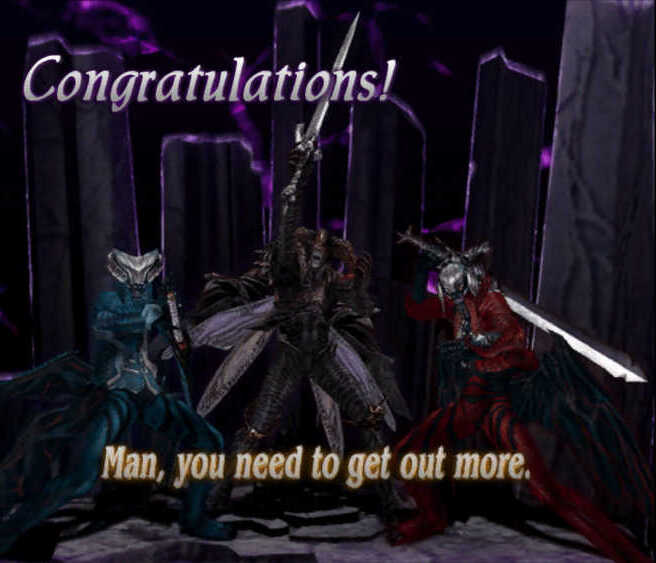
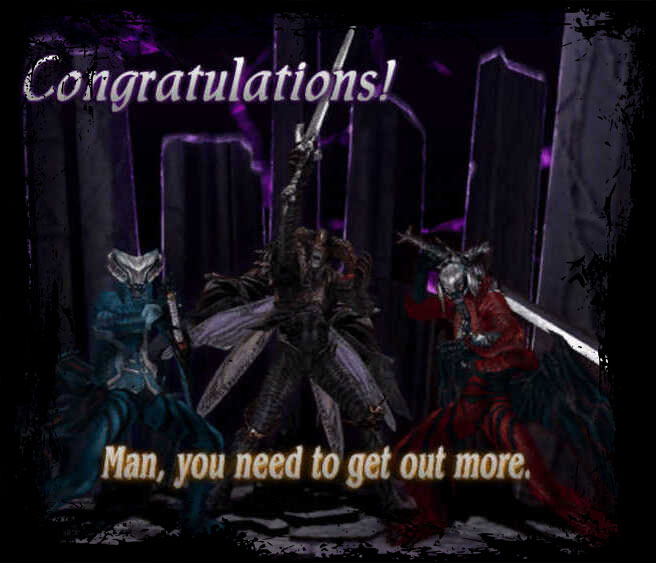
change main image

diff --git a/index.html b/index.html
@@ -1,1 +1,1 @@
-<!DOCTYPE html><html lang="en" data-bs-theme="dark"><head><meta name="viewport" content="width=device-width,initial-scale=1,shrink-to-fit=no"><meta name="description" content="A video database of Devil May Cry 3 SS rank runs on the Dante Must Die difficulty"><meta name="google-site-verification" content="053Y6zHW0-O_yotRWt5j-u8IBXQ6N47uG-VOtnefxQQ"><meta http-equiv="Expires" content="0"><meta charset="UTF-8"><title>The DMC3 SS Hall of Fame</title><link rel="stylesheet" href="/stylesheets/a.css"><link rel="icon" href="/images/ss-red.png"></head><body class="d-flex flex-column min-vh-100"><nav class="navbar navbar-expand-lg bg-body-tertiary fixed-top"><div class="d-flex container"><a class="navbar-brand" href="/"><img src="/images/logo-red.png"> </a><button class="navbar-toggler" type="button" data-bs-toggle="collapse" data-bs-target="#navbarSupportedContent" aria-controls="navbarSupportedContent" aria-expanded="false" aria-label="Toggle navigation"><span class="navbar-toggler-icon"></span></button><div class="collapse navbar-collapse" id="navbarSupportedContent"><ul class="navbar-nav me-auto mb-2 mb-lg-0"><!--<li class="p-3 nav-item"><a class="btn nav-link" aria-current="page" href="/"><i class="fa-solid fa-house"></i> Home</a></li>--><li class="p-2 nav-item"><a class="btn nav-link" aria-current="page" href="/about"><i style="color:#900" class="fa-solid fa-circle-question"></i> About</a></li><li class="p-2 nav-item"><a class="btn nav-link" aria-current="page" href="/stats"><i class="fa fa-bar-chart" aria-hidden="true"></i> Statistics</a></li><li class="p-2 nav-item"><a class="btn nav-link" aria-current="page" href="/players"><i style="color:#2a5e8c" class="fa fa-gamepad" aria-hidden="true"></i> Players</a></li></ul><ul class="navbar-nav me-auto mb-2 mb-lg-0"><li class="nav-item dropdown p-2"><a class="btn nav-link dropdown-toggle" href="#" role="button" data-bs-toggle="dropdown" aria-expanded="false">Missions - Dante</a><ul class="dropdown-menu"><li><a class="dropdown-item" href="/list/0/1">Mission 1</a></li><li><a class="dropdown-item" href="/list/0/2">Mission 2</a></li><li><a class="dropdown-item" href="/list/0/3">Mission 3</a></li><li><a class="dropdown-item" href="/list/0/4">Mission 4</a></li><li><a class="dropdown-item" href="/list/0/5">Mission 5</a></li><li><a class="dropdown-item" href="/list/0/6">Mission 6</a></li><li><a class="dropdown-item" href="/list/0/7">Mission 7</a></li><li><a class="dropdown-item" href="/list/0/8">Mission 8</a></li><li><a class="dropdown-item" href="/list/0/9">Mission 9</a></li><li><a class="dropdown-item" href="/list/0/10">Mission 10</a></li><li><a class="dropdown-item" href="/list/0/11">Mission 11</a></li><li><a class="dropdown-item" href="/list/0/12">Mission 12</a></li><li><a class="dropdown-item" href="/list/0/13">Mission 13</a></li><li><a class="dropdown-item" href="/list/0/14">Mission 14</a></li><li><a class="dropdown-item" href="/list/0/15">Mission 15</a></li><li><a class="dropdown-item" href="/list/0/16">Mission 16</a></li><li><a class="dropdown-item" href="/list/0/17">Mission 17</a></li><li><a class="dropdown-item" href="/list/0/18">Mission 18</a></li><li><a class="dropdown-item" href="/list/0/19">Mission 19</a></li><li><a class="dropdown-item" href="/list/0/20">Mission 20</a></li></ul></li><li class="nav-item dropdown p-2"><a class="btn nav-link dropdown-toggle" href="#" role="button" data-bs-toggle="dropdown" aria-expanded="false">Missions - Vergil</a><ul class="dropdown-menu"><li><a class="dropdown-item" href="/list/1/1">Mission 1</a></li><li><a class="dropdown-item" href="/list/1/2">Mission 2</a></li><li><a class="dropdown-item" href="/list/1/3">Mission 3</a></li><li><a class="dropdown-item" href="/list/1/4">Mission 4</a></li><li><a class="dropdown-item" href="/list/1/5">Mission 5</a></li><li><a class="dropdown-item" href="/list/1/6">Mission 6</a></li><li><a class="dropdown-item" href="/list/1/7">Mission 7</a></li><li><a class="dropdown-item" href="/list/1/8">Mission 8</a></li><li><a class="dropdown-item" href="/list/1/9">Mission 9</a></li><li><a class="dropdown-item" href="/list/1/10">Mission 10</a></li><li><a class="dropdown-item" href="/list/1/11">Mission 11</a></li><li><a class="dropdown-item" href="/list/1/12">Mission 12</a></li><li><a class="dropdown-item" href="/list/1/13">Mission 13</a></li><li><a class="dropdown-item" href="/list/1/14">Mission 14</a></li><li><a class="dropdown-item" href="/list/1/15">Mission 15</a></li><li><a class="dropdown-item" href="/list/1/16">Mission 16</a></li><li><a class="dropdown-item" href="/list/1/17">Mission 17</a></li><li><a class="dropdown-item" href="/list/1/18">Mission 18</a></li><li><a class="dropdown-item" href="/list/1/19">Mission 19</a></li><li><a class="dropdown-item" href="/list/1/20">Mission 20</a></li></ul></li></ul></div></div></nav><div class="container" style="padding-top:100px"><p></p><h1 style="text-align:center">Honoring one of the hardest videogame challenges ever</h1><p></p><div class="row gx-4 gx-lg-5 align-items-center my-5"><div class="col-lg-6"><img class="img-fluid rounded mb-4 mb-lg-0" src="/images/get-out-more.jpg" alt="..."></div><div class="col-lg-6" style="vertical-align:top"><p>This website catalogs videos of players who have completed Devil May Cry 3 on Dante Must Die difficulty getting an rank in all (or at least most) missions, as well as other challenges centered around SS ranks on DMD (e.g., new game runs, no upgrade runs, etc.)</p><table class="table table-bordered"><tr><td>Total Players</td><td><b>51</b></td></tr><tr><td>Total Videos (Dante)</td><td><b>1088</b></td></tr><tr><td>Total Videos (Vergil)</td><td><b>562</b></td></tr><tr><td>Total Badges</td><td><b>979</b></td></tr><tr><td>Total Play Time</td><td><b>250h 47m 44s</b></td></tr><tr><td>Total Damage</td><td><b>0</b></td></tr></table><br><center><a href="/about#contact"><img src="/images/submit-entry.png"></a></center><br><br></div></div></div><footer class="mt-auto text-center text-lg-start bg-body-tertiary text-muted"><section class="d-flex justify-content-center p-4 border-bottom"><div class="me-5"><span>Contact:</span></div><div><a href="https://twitch.tv/sena_ttv" target="_blank" class="me-4 text-reset"><i class="fab fa-twitch"></i> </a><a href="https://youtube.com/c/sena_ttv" target="_blank" class="me-4 text-reset"><i class="fab fa-youtube"></i> </a><a href="/about#contact" class="me-4 text-reset"><i class="fab fa-discord"></i> </a><a href="/about#contact" class="me-4 text-reset"><i class="fa fa-envelope"></i></a></div></section><div class="text-center p-4" style="background-color:rgba(0,0,0,.05)">© 2023-2025 Copyright: <a class="text-reset fw-bold" target="_blank" href="https://twitch.tv/sena_ttv">Sena</a></div></footer></body><script src="/javascripts/a.js"></script></html>
+<!DOCTYPE html><html lang="en" data-bs-theme="dark"><head><meta name="viewport" content="width=device-width,initial-scale=1,shrink-to-fit=no"><meta name="description" content="A video database of Devil May Cry 3 SS rank runs on the Dante Must Die difficulty"><meta name="google-site-verification" content="053Y6zHW0-O_yotRWt5j-u8IBXQ6N47uG-VOtnefxQQ"><meta http-equiv="Expires" content="0"><meta charset="UTF-8"><title>The DMC3 SS Hall of Fame</title><link rel="stylesheet" href="/stylesheets/a.css"><link rel="icon" href="/images/ss-red.png"></head><body class="d-flex flex-column min-vh-100"><nav class="navbar navbar-expand-lg bg-body-tertiary fixed-top"><div class="d-flex container"><a class="navbar-brand" href="/"><img src="/images/logo-red.png"> </a><button class="navbar-toggler" type="button" data-bs-toggle="collapse" data-bs-target="#navbarSupportedContent" aria-controls="navbarSupportedContent" aria-expanded="false" aria-label="Toggle navigation"><span class="navbar-toggler-icon"></span></button><div class="collapse navbar-collapse" id="navbarSupportedContent"><ul class="navbar-nav me-auto mb-2 mb-lg-0"><!--<li class="p-3 nav-item"><a class="btn nav-link" aria-current="page" href="/"><i class="fa-solid fa-house"></i> Home</a></li>--><li class="p-2 nav-item"><a class="btn nav-link" aria-current="page" href="/about"><i style="color:#900" class="fa-solid fa-circle-question"></i> About</a></li><li class="p-2 nav-item"><a class="btn nav-link" aria-current="page" href="/stats"><i class="fa fa-bar-chart" aria-hidden="true"></i> Statistics</a></li><li class="p-2 nav-item"><a class="btn nav-link" aria-current="page" href="/players"><i style="color:#2a5e8c" class="fa fa-gamepad" aria-hidden="true"></i> Players</a></li></ul><ul class="navbar-nav me-auto mb-2 mb-lg-0"><li class="nav-item dropdown p-2"><a class="btn nav-link dropdown-toggle" href="#" role="button" data-bs-toggle="dropdown" aria-expanded="false">Missions - Dante</a><ul class="dropdown-menu"><li><a class="dropdown-item" href="/list/0/1">Mission 1</a></li><li><a class="dropdown-item" href="/list/0/2">Mission 2</a></li><li><a class="dropdown-item" href="/list/0/3">Mission 3</a></li><li><a class="dropdown-item" href="/list/0/4">Mission 4</a></li><li><a class="dropdown-item" href="/list/0/5">Mission 5</a></li><li><a class="dropdown-item" href="/list/0/6">Mission 6</a></li><li><a class="dropdown-item" href="/list/0/7">Mission 7</a></li><li><a class="dropdown-item" href="/list/0/8">Mission 8</a></li><li><a class="dropdown-item" href="/list/0/9">Mission 9</a></li><li><a class="dropdown-item" href="/list/0/10">Mission 10</a></li><li><a class="dropdown-item" href="/list/0/11">Mission 11</a></li><li><a class="dropdown-item" href="/list/0/12">Mission 12</a></li><li><a class="dropdown-item" href="/list/0/13">Mission 13</a></li><li><a class="dropdown-item" href="/list/0/14">Mission 14</a></li><li><a class="dropdown-item" href="/list/0/15">Mission 15</a></li><li><a class="dropdown-item" href="/list/0/16">Mission 16</a></li><li><a class="dropdown-item" href="/list/0/17">Mission 17</a></li><li><a class="dropdown-item" href="/list/0/18">Mission 18</a></li><li><a class="dropdown-item" href="/list/0/19">Mission 19</a></li><li><a class="dropdown-item" href="/list/0/20">Mission 20</a></li></ul></li><li class="nav-item dropdown p-2"><a class="btn nav-link dropdown-toggle" href="#" role="button" data-bs-toggle="dropdown" aria-expanded="false">Missions - Vergil</a><ul class="dropdown-menu"><li><a class="dropdown-item" href="/list/1/1">Mission 1</a></li><li><a class="dropdown-item" href="/list/1/2">Mission 2</a></li><li><a class="dropdown-item" href="/list/1/3">Mission 3</a></li><li><a class="dropdown-item" href="/list/1/4">Mission 4</a></li><li><a class="dropdown-item" href="/list/1/5">Mission 5</a></li><li><a class="dropdown-item" href="/list/1/6">Mission 6</a></li><li><a class="dropdown-item" href="/list/1/7">Mission 7</a></li><li><a class="dropdown-item" href="/list/1/8">Mission 8</a></li><li><a class="dropdown-item" href="/list/1/9">Mission 9</a></li><li><a class="dropdown-item" href="/list/1/10">Mission 10</a></li><li><a class="dropdown-item" href="/list/1/11">Mission 11</a></li><li><a class="dropdown-item" href="/list/1/12">Mission 12</a></li><li><a class="dropdown-item" href="/list/1/13">Mission 13</a></li><li><a class="dropdown-item" href="/list/1/14">Mission 14</a></li><li><a class="dropdown-item" href="/list/1/15">Mission 15</a></li><li><a class="dropdown-item" href="/list/1/16">Mission 16</a></li><li><a class="dropdown-item" href="/list/1/17">Mission 17</a></li><li><a class="dropdown-item" href="/list/1/18">Mission 18</a></li><li><a class="dropdown-item" href="/list/1/19">Mission 19</a></li><li><a class="dropdown-item" href="/list/1/20">Mission 20</a></li></ul></li></ul></div></div></nav><div class="container" style="padding-top:100px"><p></p><h1 style="text-align:center">Honoring one of the hardest videogame challenges ever</h1><p></p><div class="row gx-4 gx-lg-5 align-items-center my-5"><div class="col-lg-6"><img class="img-fluid mb-4 mb-lg-0" src="/images/get-out-more.png" alt="..."></div><div class="col-lg-6" style="vertical-align:top"><p>This website catalogs videos of players who have completed Devil May Cry 3 on Dante Must Die difficulty getting an rank in all (or at least most) missions, as well as other challenges centered around SS ranks on DMD (e.g., new game runs, no upgrade runs, etc.)</p><table class="table table-bordered"><tr><td>Total Players</td><td><b>51</b></td></tr><tr><td>Total Videos (Dante)</td><td><b>1088</b></td></tr><tr><td>Total Videos (Vergil)</td><td><b>562</b></td></tr><tr><td>Total Badges</td><td><b>979</b></td></tr><tr><td>Total Play Time</td><td><b>250h 47m 44s</b></td></tr><tr><td>Total Damage</td><td><b>0</b></td></tr></table><br><center><a href="/about#contact"><img src="/images/submit-entry.png"></a></center><br><br></div></div></div><footer class="mt-auto text-center text-lg-start bg-body-tertiary text-muted"><section class="d-flex justify-content-center p-4 border-bottom"><div class="me-5"><span>Contact:</span></div><div><a href="https://twitch.tv/sena_ttv" target="_blank" class="me-4 text-reset"><i class="fab fa-twitch"></i> </a><a href="https://youtube.com/c/sena_ttv" target="_blank" class="me-4 text-reset"><i class="fab fa-youtube"></i> </a><a href="/about#contact" class="me-4 text-reset"><i class="fab fa-discord"></i> </a><a href="/about#contact" class="me-4 text-reset"><i class="fa fa-envelope"></i></a></div></section><div class="text-center p-4" style="background-color:rgba(0,0,0,.05)">© 2023-2025 Copyright: <a class="text-reset fw-bold" target="_blank" href="https://twitch.tv/sena_ttv">Sena</a></div></footer></body><script src="/javascripts/a.js"></script></html>
